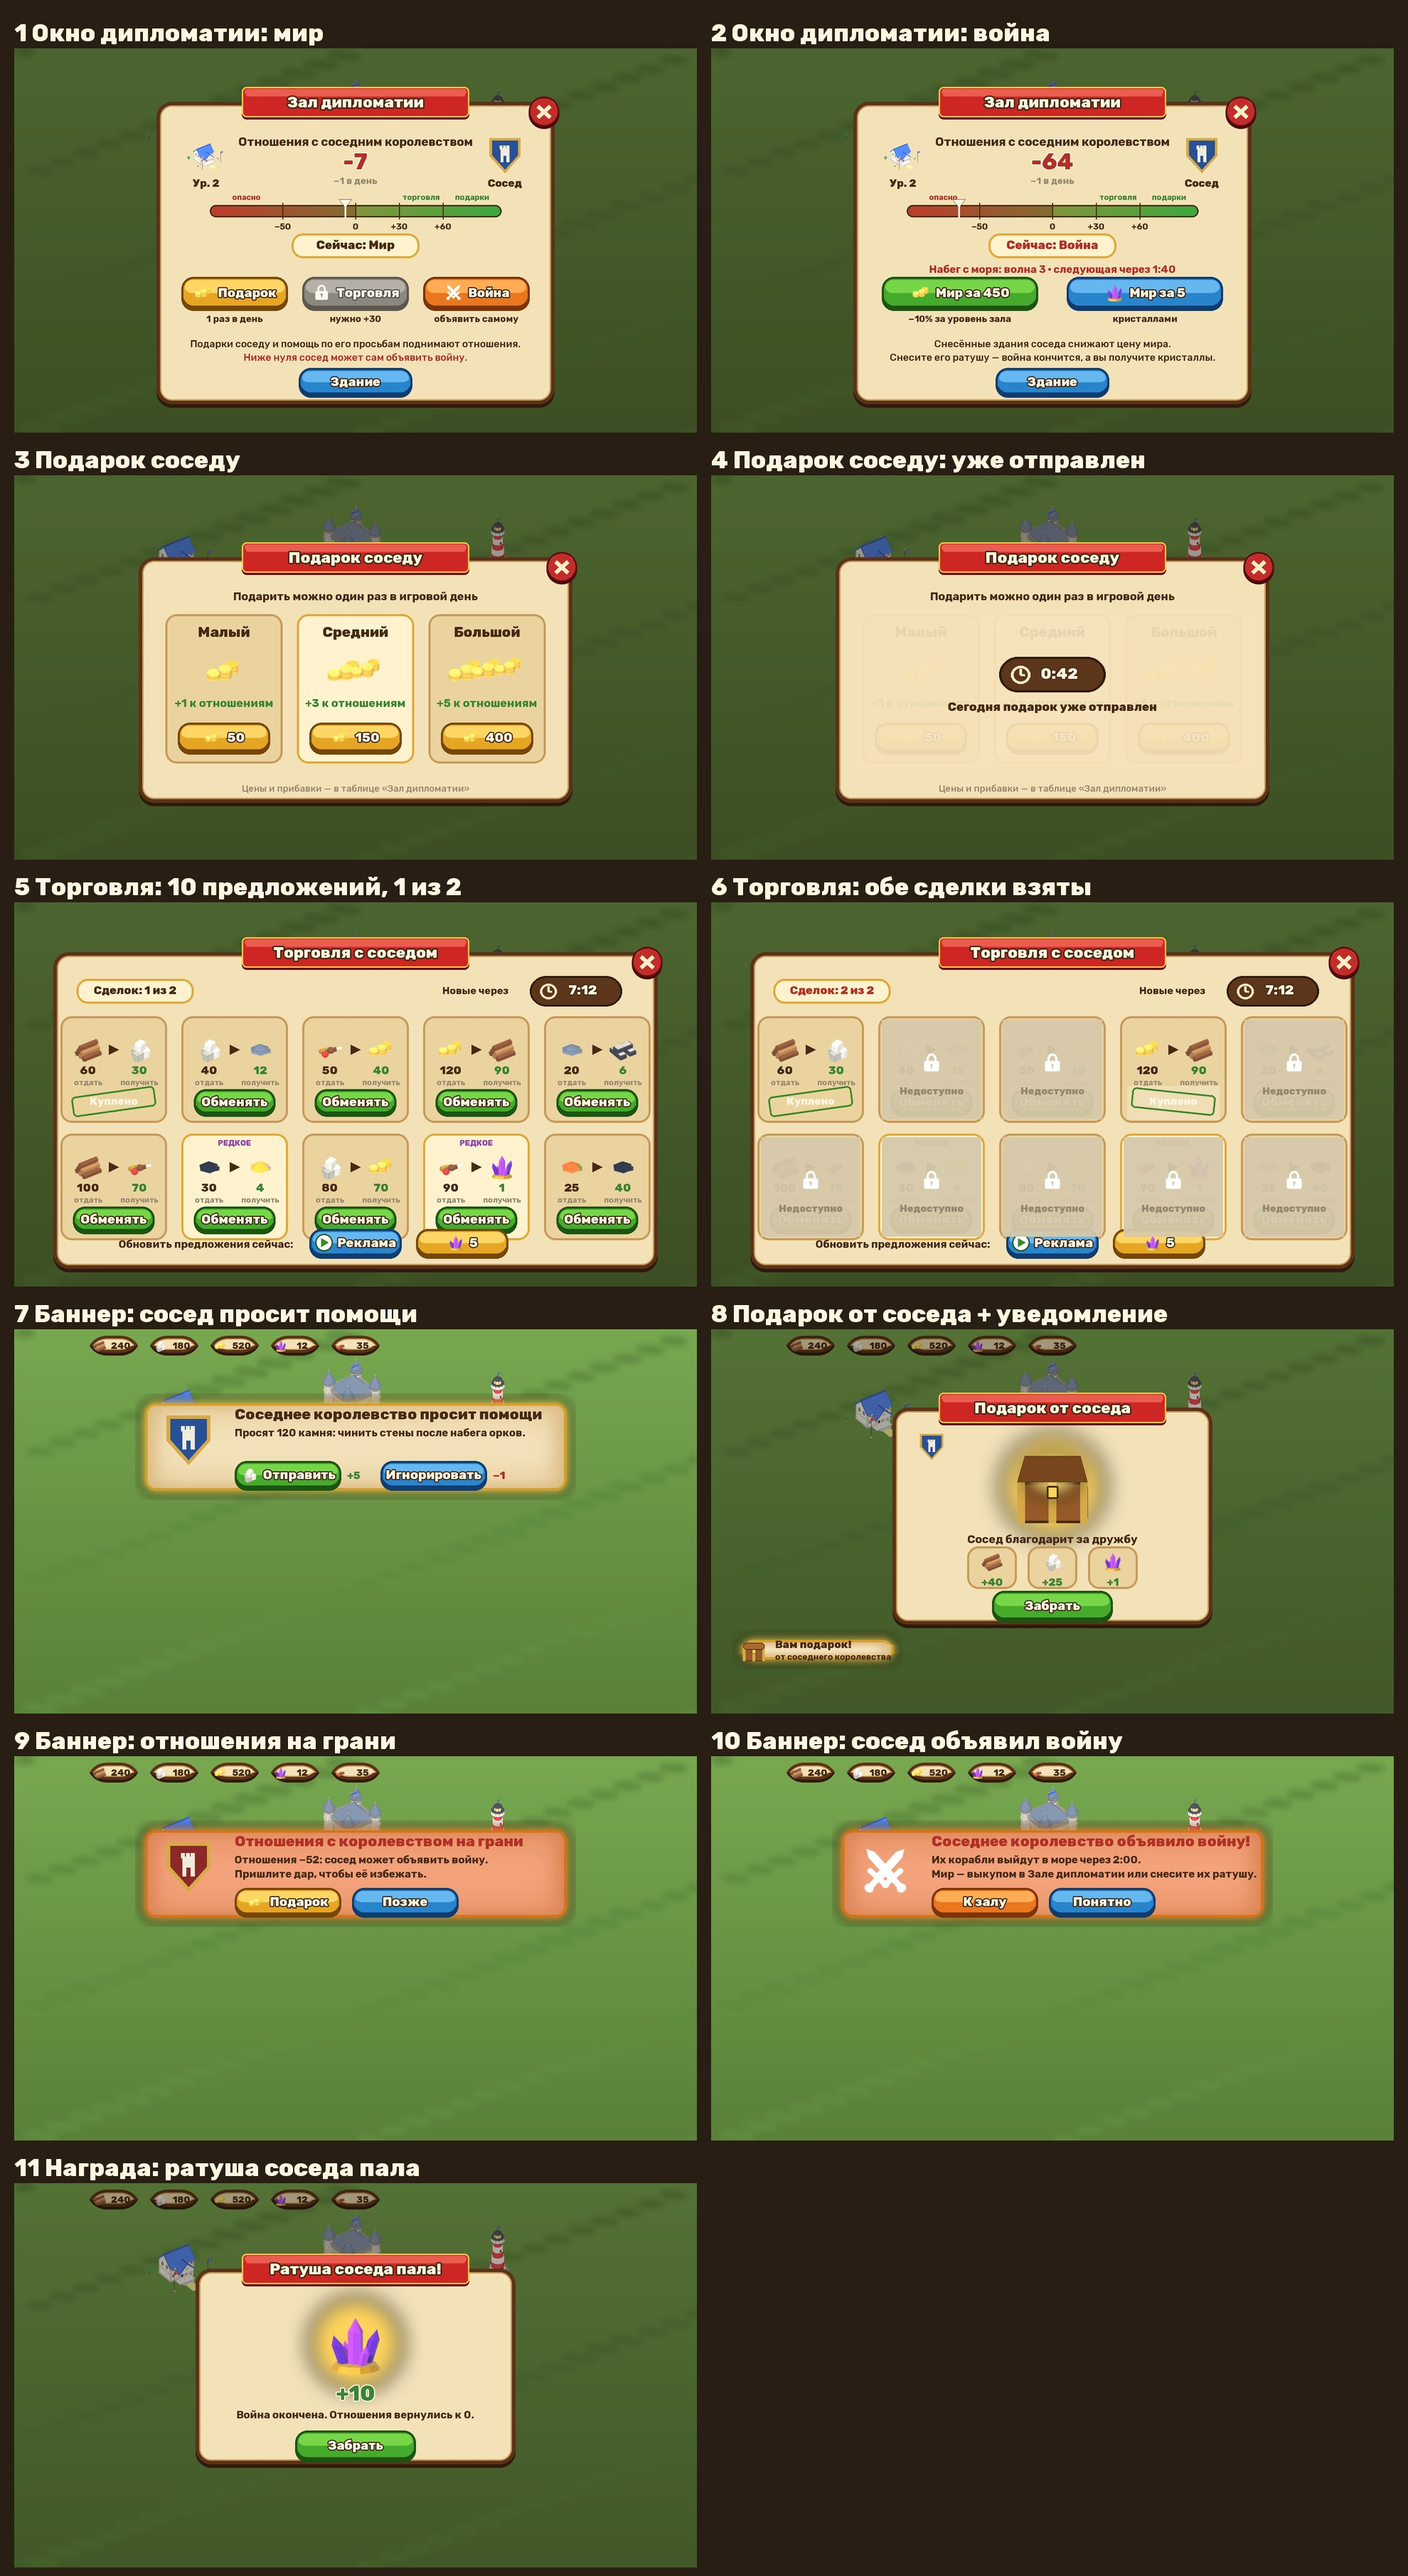
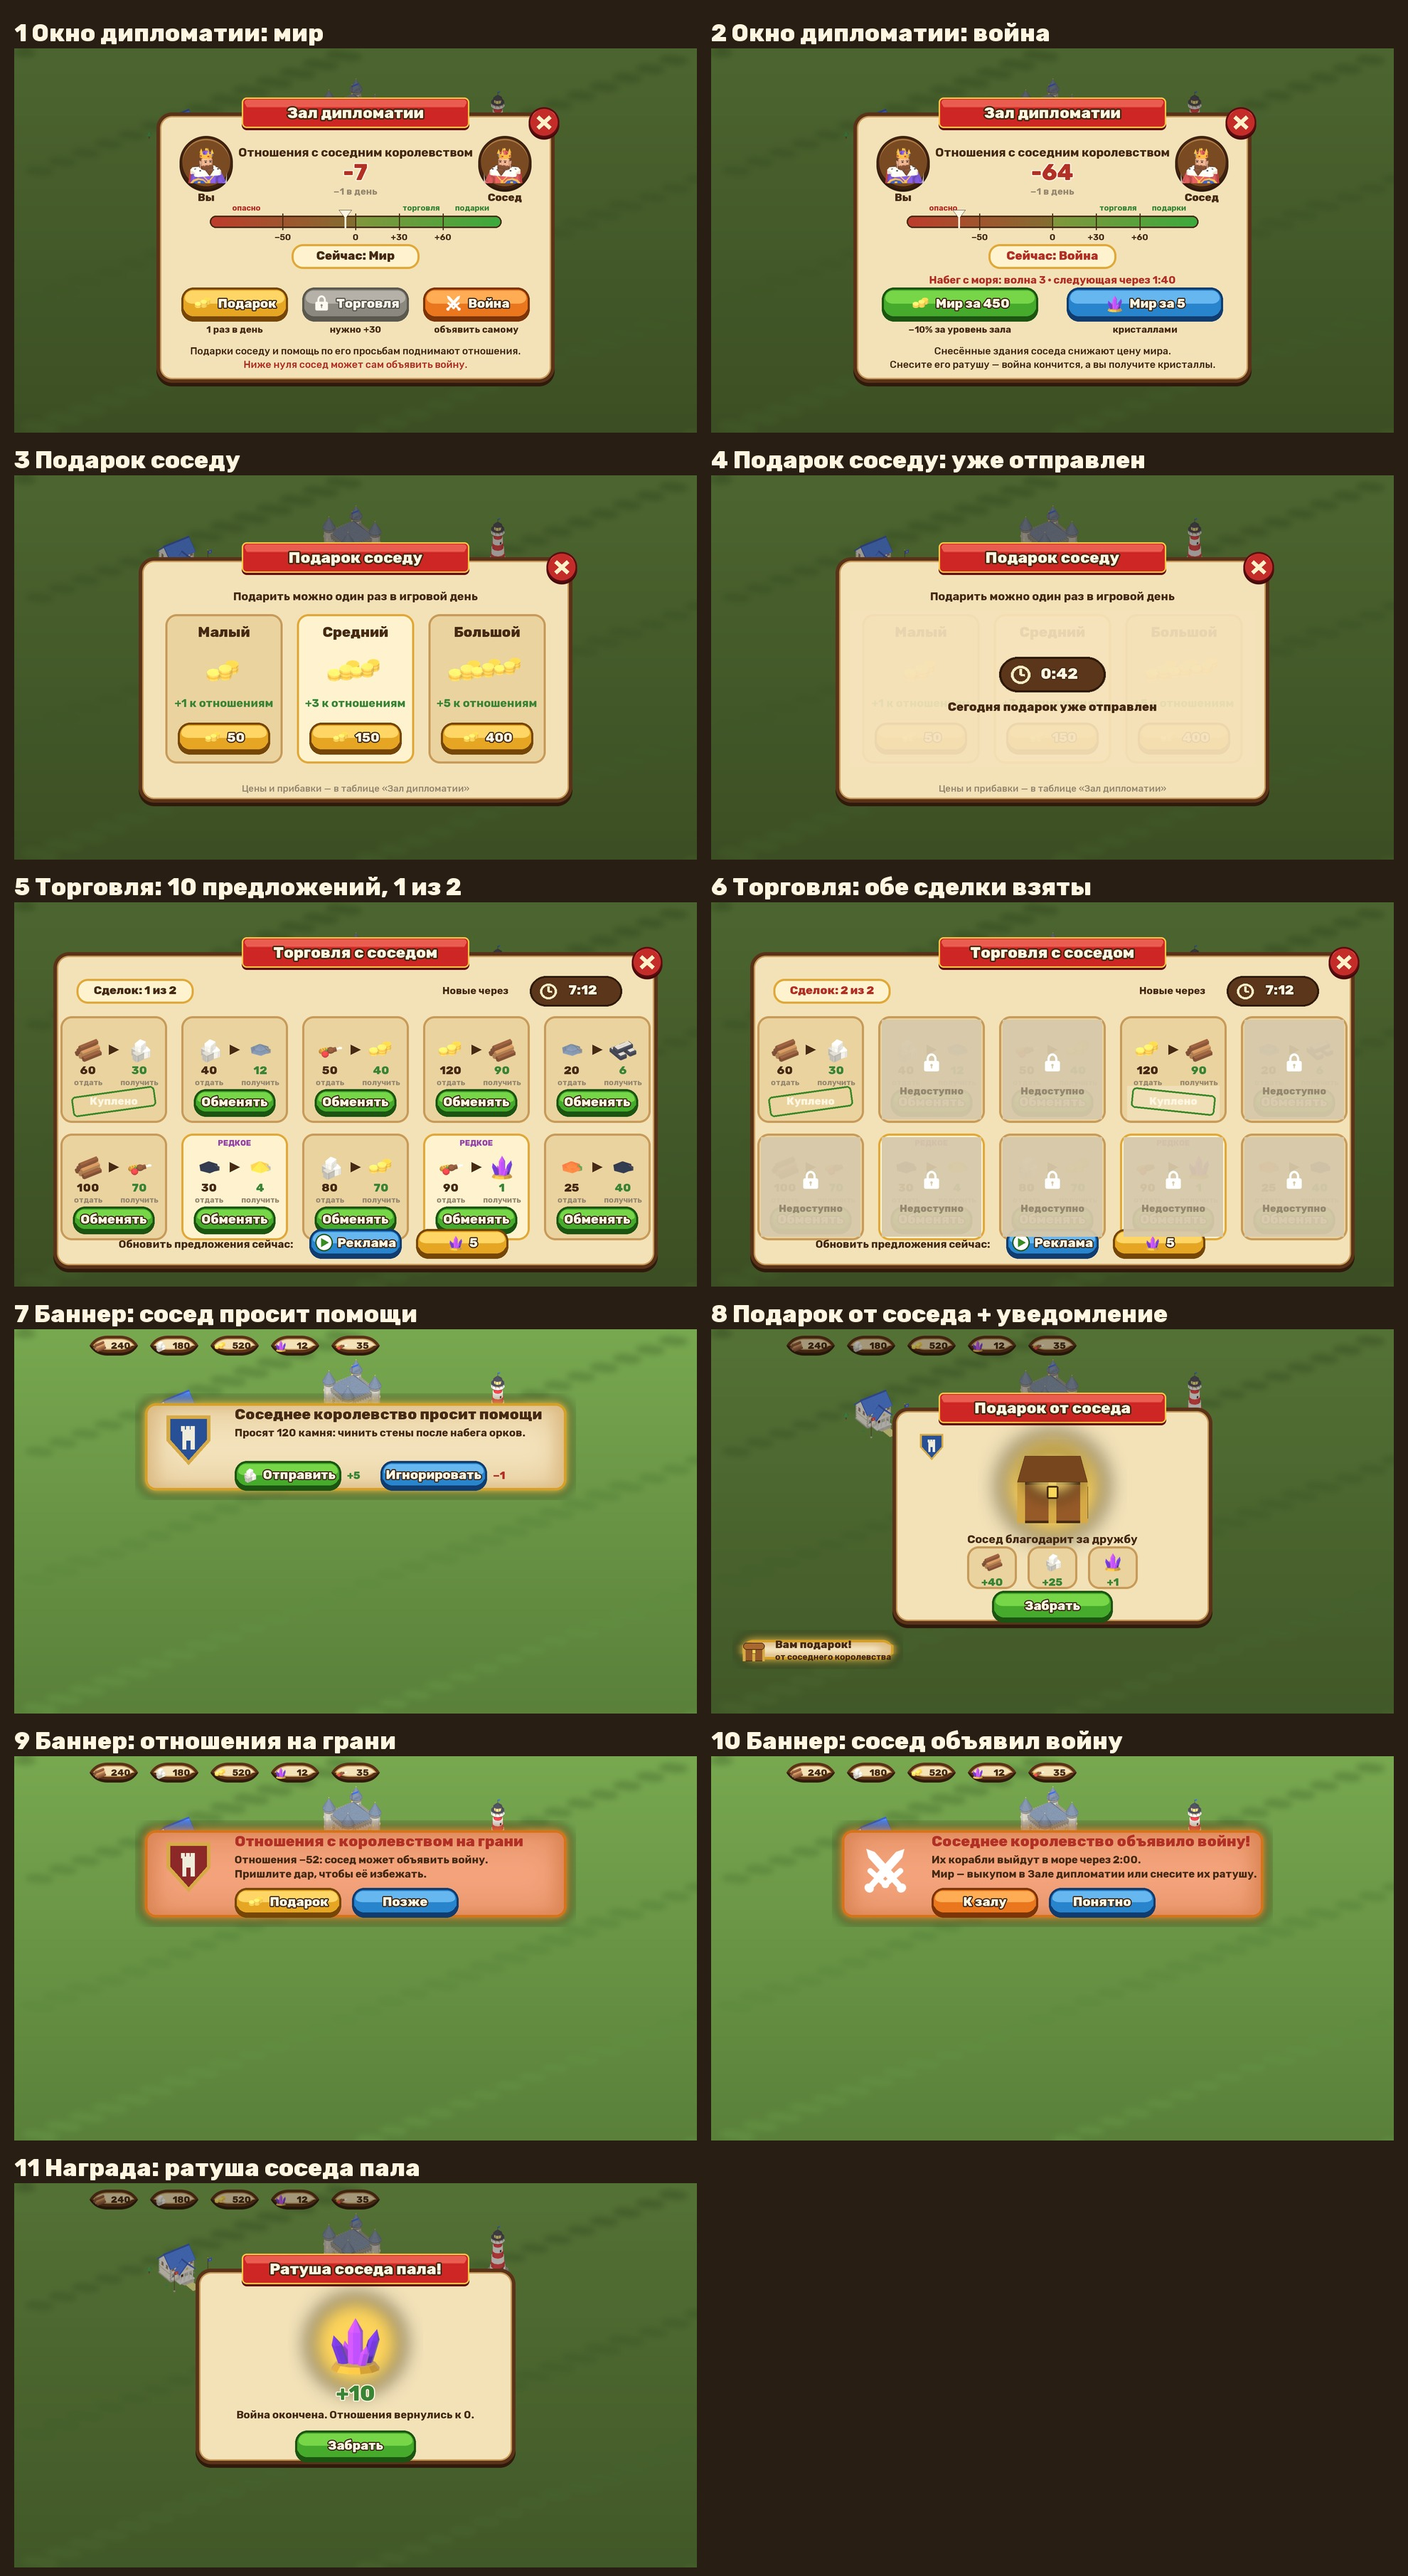
Diplomacy window: round-1 layout kept, «Здание» button gone, two kings instead of hall and crest

Changed region(s): [[0.5854, 0.0312, 0.8934, 0.1561], [0.0924, 0.0312, 0.4005, 0.1561]]

diff --git a/Tools/ui/diplomacy_concepts.py b/Tools/ui/diplomacy_concepts.py
@@ -198,21 +198,43 @@ def scale(c, x0, y, w, value, war=False):
     d.line([(x, y), (x, y + h)], fill=CREAM, width=5)
 
 
+def king_badge(size, neighbour):
+    """A King portrait in the game's round frame; the neighbour's is mirrored (faces ours), cape recoloured red."""
+    frame = load(SKIN, "round", (size, int(size * 202 / 192)))
+    k = load(ICONS, "PortraitKing", (int(size * .78), int(size * .78)))
+    if neighbour:
+        k = k.transpose(Image.FLIP_LEFT_RIGHT)
+        r, g, b, a = k.split()
+        hsv = Image.merge("RGB", (r, g, b)).convert("HSV")
+        h, sat, v = hsv.split()
+        # the purple cape -> red; skin, beard and gold keep their hues
+        hp, sp = h.load(), sat.load()
+        for y in range(k.height):
+            for x in range(k.width):
+                if sp[x, y] > 70 and 170 <= hp[x, y] <= 215:
+                    hp[x, y] = 0
+        r2, g2, b2 = Image.merge("HSV", (h, sat, v)).convert("RGB").split()
+        k = Image.merge("RGBA", (r2, g2, b2, a))
+    frame.alpha_composite(k, ((frame.width - k.width) // 2, (frame.height - k.height) // 2 - 4))
+    return frame
+
+
 def main_window(war=False):
     c = ground()
     dim(c)
-    pw, ph = 1120, 860
-    px, py = (W - pw) // 2, 150
+    pw, ph = 1120, 770  # no «Здание» button: the two lines sit where it was
+    px, py = (W - pw) // 2, 180
     c.alpha_composite(panel(pw, ph), (px, py))
     title_bar(c, W // 2, py + 4, "Зал дипломатии")
     close_btn(c, px + pw - 30, py + 30)
     d = ImageDraw.Draw(c)
     cx = W // 2
     # who: our hall level and the neighbour
-    put(c, load(ICONS, "DiplomacyHall", (120, 120)), px + 140, py + 150)
-    text(d, (px + 140, py + 228), "Ур. 2", 30)
-    put(c, crest(120), px + pw - 140, py + 150)
-    text(d, (px + pw - 140, py + 228), "Сосед", 30)
+    # the two kings face each other (the user, 2026-11-17: kings instead of the hall and the crest)
+    put(c, king_badge(150, False), px + 140, py + 145)
+    text(d, (px + 140, py + 238), "Вы", 30)
+    put(c, king_badge(150, True), px + pw - 140, py + 145)
+    text(d, (px + pw - 140, py + 238), "Сосед", 30)
     value = -64 if war else -7
     text(d, (cx, py + 112), "Отношения с соседним королевством", 34, INK, "Bold")
     vcol = RED if value < 0 else GREEN
@@ -230,16 +252,15 @@ def main_window(war=False):
         labelled_button(c, "gold", cx - 340, y, 300, "Подарок", res("coins", 64), "1 раз в день")
         labelled_button(c, "blue", cx, y, 300, "Торговля", load(GLYPHS, "Hud_Lock", (60, 60)), "нужно +30", dimmed=True)
         labelled_button(c, "orange", cx + 340, y, 300, "Война", load(GLYPHS, "Swords", (60, 60)), "объявить самому")
-        text(d, (cx, py + 680), "Подарки соседу и помощь по его просьбам поднимают отношения.", 28, INK, "Medium")
-        text(d, (cx, py + 718), "Ниже нуля сосед может сам объявить войну.", 28, RED, "Medium")
+        text(d, (cx, py + ph - 100), "Подарки соседу и помощь по его просьбам поднимают отношения.", 28, INK, "Medium")
+        text(d, (cx, py + ph - 62), "Ниже нуля сосед может сам объявить войну.", 28, RED, "Medium")
     else:
         y = py + 540
         text(d, (cx, py + 470), "Набег с моря: волна 3 · следующая через 1:40", 30, RED, "Bold")
         labelled_button(c, "green", cx - 260, y, 440, "Мир за 450", res("coins", 64), "−10% за уровень зала")
         labelled_button(c, "blue", cx + 260, y, 440, "Мир за 5", res("crystal", 64), "кристаллами")
-        text(d, (cx, py + 680), "Снесённые здания соседа снижают цену мира.", 28, INK, "Medium")
-        text(d, (cx, py + 718), "Снесите его ратушу — война кончится, а вы получите кристаллы.", 28, INK, "Medium")
-    labelled_button(c, "blue", cx, py + ph - 70, 320, "Здание", h=84)
+        text(d, (cx, py + ph - 100), "Снесённые здания соседа снижают цену мира.", 28, INK, "Medium")
+        text(d, (cx, py + ph - 62), "Снесите его ратушу — война кончится, а вы получите кристаллы.", 28, INK, "Medium")
     return c
 
 

diff --git a/Design/features/bot.md b/Design/features/bot.md
@@ -299,3 +299,8 @@ from `ArchipelagoBotCell`; `TheBotKingdom_StandsOnItsIsland...` now checks each 
 - The button's icon (the user, 2026-11-17): variant C «Договор с печатью» -- a treaty scroll, red seal, quill
   (`treaty()` in Tools/ui/diplomacy_icon_concepts.py; the six choices in Design/ui/Diplomacy_Icon_Concepts.png). The
   scroll-over-shield one was rejected. For the game: export it as a sprite to UI/Glyphs when the button is built.
+- THE WINDOW (the user, 2026-11-17): keep the ROUND-1 layout (`main_window` in Tools/ui/diplomacy_concepts.py ->
+  Design/ui/Diplomacy_1_Window_Peace / _2_Window_War), NOT the big v2 one: title, relations number, scale, «Сейчас: Мир»,
+  three buttons. Changes: no «Здание» button (the two help lines sit where it was, panel shorter); instead of the hall
+  icon and the crest -- TWO KINGS facing each other in round frames, «Вы» left, «Сосед» right (the neighbour's portrait
+  mirrored, cape red). The game has one King portrait (PortraitKing); the neighbour's needs its own sprite when built.
